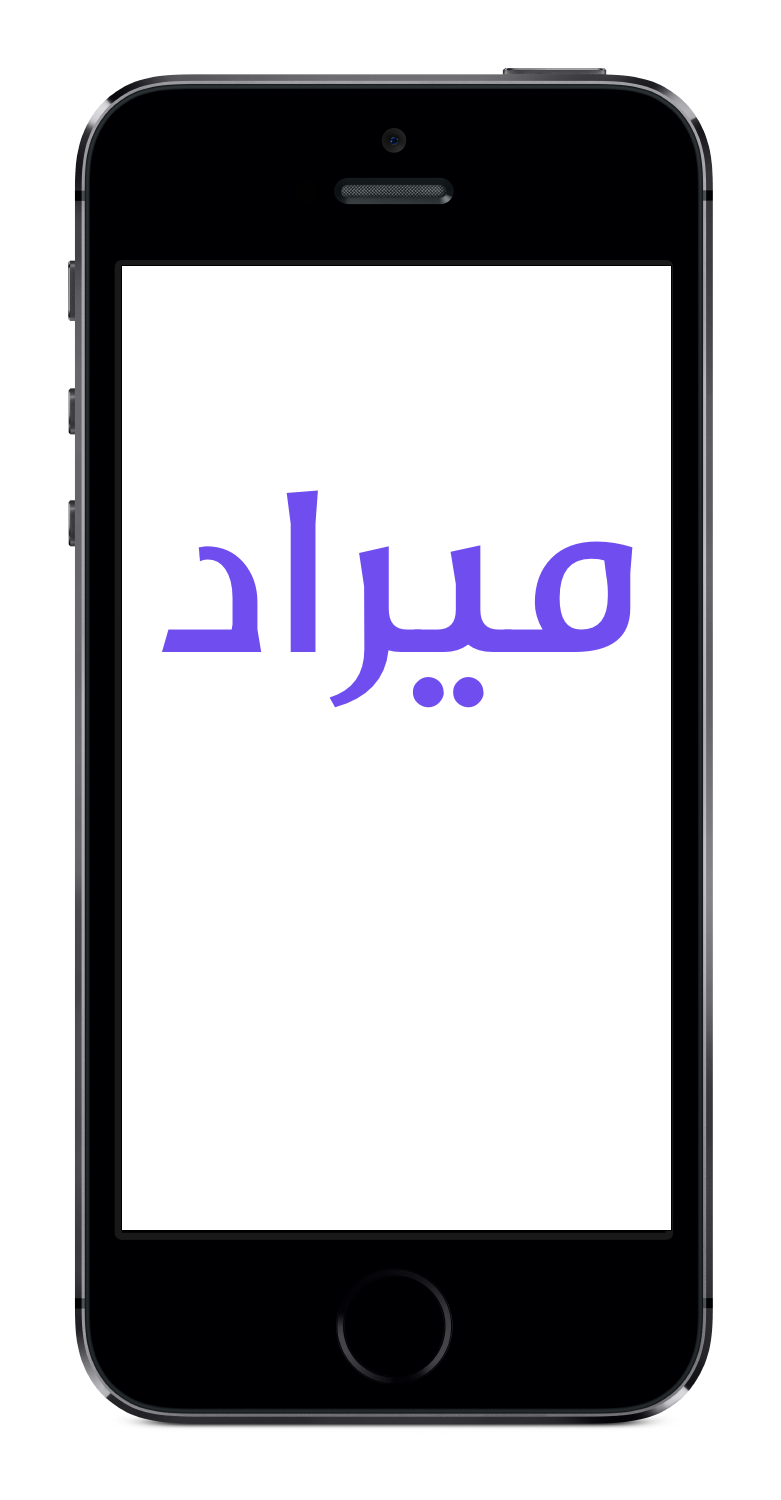
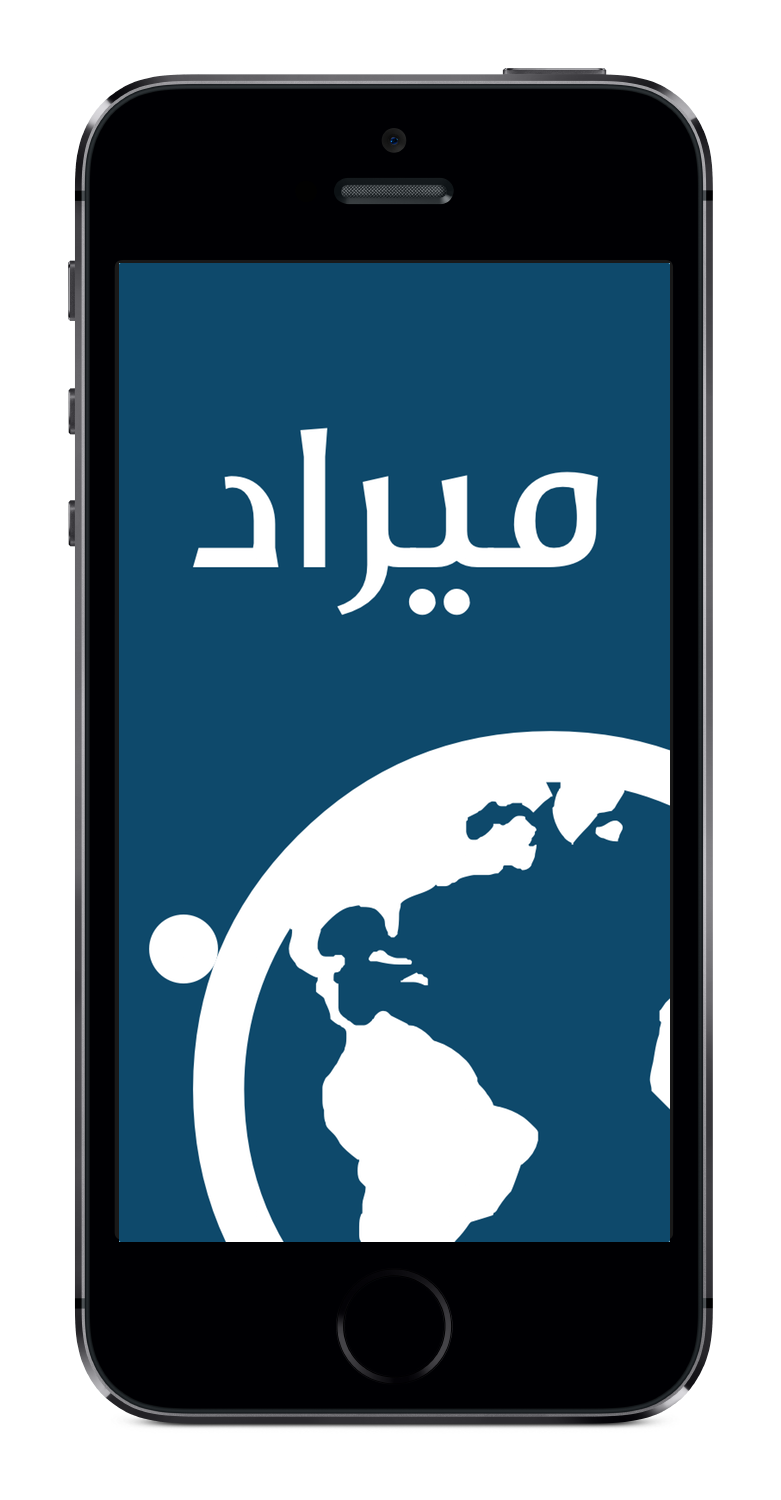
new pic style added.image and text has vertical-align:middle with js!

diff --git a/templates/home.html b/templates/home.html
@@ -50,13 +50,13 @@
 				</div>
 			</div>
 		</div>
-		<div class="row plate in-side" id="subject-plate" style="background-color:#f1f1f1;height:600px;padding-top:4em;">
+		<div class="row plate in-side" id="subject-plate" style="background-color:#f1f1f1;height:600px;">
 			<div id="subject-image" class="columns large-5 in-left" align="right" style="height:100%;">
-				<img src="/static/image/iphone2.png" class="desc-images">
+				<img src="/static/image/category.jpg" class="desc-images">
 			</div>
-			<div id="subject-text" class="columns large-7 in-right">
-				<div class="row" style="margin-top:6em;">
-					<div class="columns small-8 small-offset-2 end">
+			<div id="subject-text" class="columns large-7 in-right" style="height:100%;">
+				<div class="row" >
+					<div class="columns small-8 small-offset-2 end desc-text">
 						<p align="right" dir="rtl" style="font-size:4em;margin-bottom:0px;">
 						موضوعات متعدد
 						</p>
@@ -67,13 +67,13 @@
 				</div>
 			</div>
 		</div>
-		<div class="row plate in-side" id="ai-plate" style="background-color:#ffffff;height:600px;padding-top:4em;">
+		<div class="row plate in-side" id="ai-plate" style="background-color:#ffffff;height:600px;">
 			<div id="ai-image" class="columns large-5 in-left" align="right" style="height:100%;">
-				<img src="/static/image/iphone2.png" class="desc-images">
+				<img src="/static/image/category.jpg" class="desc-images">
 			</div>
-			<div id="ai-text" class="columns large-7 in-right">
-				<div class="row" style="margin-top:6em;">
-					<div class="columns small-8 small-offset-2 end">
+			<div id="ai-text" class="columns large-7 in-right" style="height:100%;">
+				<div class="row">
+					<div class="columns small-8 small-offset-2 end desc-text">
 						<p align="right" dir="rtl" style="font-size:4em;margin-bottom:0px;">
 						هوشمند بخوانید
 						</p>
@@ -84,14 +84,14 @@
 				</div>
 			</div>
 		</div>
-		<div class="row plate in-side" id="lost-plate" style="background-color:#f1f1f1;height:600px;padding-top:4em;">
+		<div class="row plate in-side" id="lost-plate" style="background-color:#f1f1f1;height:600px;">
 			<div id="lost-image" class="columns large-5 in-left" align="right" style="height:100%;">
-				<img src="/static/image/iphone2.png" class="desc-images">
+				<img src="/static/image/category.jpg" class="desc-images">
 			</div>
-			<div id="lost-text" class="columns large-7 in-right">
-				<div class="row" style="margin-top:8em;">
-					<div class="columns small-8 small-offset-2 end">
-						<p align="right" dir="rtl" style="font-size:2.5em;margin-bottom:0px;">
+			<div id="lost-text" class="columns large-7 in-right" style="height:100%;">
+				<div class="row">
+					<div class="columns small-8 small-offset-2 end desc-text">
+						<p align="right" dir="rtl" style="font-size:2.5em;margin-bottom:0px;margin-top:1em;">
 						هیچ خبر مهمی را از دست ندهید
 						</p>
 						<p align="justify" dir="rtl" style="font-size:1.3em;">
@@ -101,13 +101,13 @@
 				</div>
 			</div>
 		</div>
-		<div class="row plate in-side" id="source-plate" style="background-color:#ffffff;height:600px;padding-top:4em;">
+		<div class="row plate in-side" id="source-plate" style="background-color:#ffffff;height:600px;">
 			<div id="source-image" class="columns large-5 in-left" align="right" style="height:100%;">
-				<img src="/static/image/iphone2.png" class="desc-images">
+				<img src="/static/image/category.jpg" class="desc-images">
 			</div>
-			<div id="source-text" class="columns large-7 in-right">
-				<div class="row" style="margin-top:6em;">
-					<div class="columns small-8 small-offset-2 end">
+			<div id="source-text" class="columns large-7 in-right" style="height:100%;">
+				<div class="row">
+					<div class="columns small-8 small-offset-2 end desc-text">
 						<p align="right" dir="rtl" style="font-size:4em;margin-bottom:0px;">
 						منابع متنوع
 						</p>

diff --git a/static/js/home.js b/static/js/home.js
@@ -8,43 +8,46 @@ function imReady()
 
 	$('#main-text-plate').css({'margin-top':heightOffset.toString()+'px','margin-bottom':heightOffset.toString()+'px'})
 	//$('#main-pic').css({'background-size':($(window).height()*0.4).toString()+'px'})
-	
+	//console.log($('.desc-images').parent().height())
+	$('.desc-images').css({'margin-top':($('.desc-images').parent().height()*0.25).toString()+'px'});
+	$('.desc-text').css({'margin-top':(($('.desc-text').parent().parent().height()-$('.desc-text').height())/2).toString()+'px'});
+
 	$(window).scroll(function()
 	{
-		console.log($(document).scrollTop())
-		if($(document).scrollTop()<$('#category-plate').position().top-200)
+		//console.log($(document).scrollTop())
+		if($(document).scrollTop()<$('#category-plate').position().top-300)
 		{
 
 		}
-		else if($(document).scrollTop()>$('#category-plate').position().top-200 && $('#category-plate').hasClass('in-side'))
+		else if($(document).scrollTop()>$('#category-plate').position().top-300 && $('#category-plate').hasClass('in-side'))
 		{
 			console.log("category")
 			$('#category-image').css({'animation':'from-left 0.7s','-webkit-animation':'from-left 0.7s','animation-fill-mode': 'forwards'});
 			$('#category-text').css({'animation':'from-right 0.7s','-webkit-animation':'from-right 0.7s','animation-fill-mode': 'forwards'});
 			$('#category-plate').removeClass('in-side');
 		}
-		else if($(document).scrollTop()>$('#subject-plate').position().top-200 && $('#subject-plate').hasClass('in-side'))
+		else if($(document).scrollTop()>$('#subject-plate').position().top-300 && $('#subject-plate').hasClass('in-side'))
 		{
 			console.log("subject")
 			$('#subject-image').css({'animation':'from-left 0.7s','-webkit-animation':'from-left 0.7s','animation-fill-mode': 'forwards'});
 			$('#subject-text').css({'animation':'from-right 0.7s','-webkit-animation':'from-right 0.7s','animation-fill-mode': 'forwards'});
 			$('#subject-plate').removeClass('in-side');
 		}
-		else if($(document).scrollTop()>$('#ai-plate').position().top-200 && $('#ai-plate').hasClass('in-side'))
+		else if($(document).scrollTop()>$('#ai-plate').position().top-300 && $('#ai-plate').hasClass('in-side'))
 		{
 			console.log("ai")
 			$('#ai-image').css({'animation':'from-left 0.7s','-webkit-animation':'from-left 0.7s','animation-fill-mode': 'forwards'});
 			$('#ai-text').css({'animation':'from-right 0.7s','-webkit-animation':'from-right 0.7s','animation-fill-mode': 'forwards'});
 			$('#ai-plate').removeClass('in-side');
 		}
-		else if($(document).scrollTop()>$('#lost-plate').position().top-200 && $('#lost-plate').hasClass('in-side'))
+		else if($(document).scrollTop()>$('#lost-plate').position().top-300 && $('#lost-plate').hasClass('in-side'))
 		{
 			console.log("lost")
 			$('#lost-image').css({'animation':'from-left 0.7s','-webkit-animation':'from-left 0.7s','animation-fill-mode': 'forwards'});
 			$('#lost-text').css({'animation':'from-right 0.7s','-webkit-animation':'from-right 0.7s','animation-fill-mode': 'forwards'});
 			$('#lost-plate').removeClass('in-side');
 		}
-		else if($(document).scrollTop()>$('#source-plate').position().top-200 && $('#source-plate').hasClass('in-side'))
+		else if($(document).scrollTop()>$('#source-plate').position().top-300 && $('#source-plate').hasClass('in-side'))
 		{
 			console.log("source")
 			$('#source-image').css({'animation':'from-left 0.7s','-webkit-animation':'from-left 0.7s','animation-fill-mode': 'forwards'});

diff --git a/static/css/home.css b/static/css/home.css
@@ -68,9 +68,10 @@ p
 {
   height: 600px;
 
-  background: #000000 url('../image/back4.png') top left;
+/*  background: #000000 url('../image/back4.png') top left;
 
-  background-attachment: fixed;
+  background-attachment: fixed;*/
+  background-color: #0E496B;
 
 }
 #market-plate
@@ -95,7 +96,9 @@ p
 }
 .desc-images
 {
-  height:80%;
+
+  border-radius: 30px;
+  height:50%;
 }
 .in-left
 {
